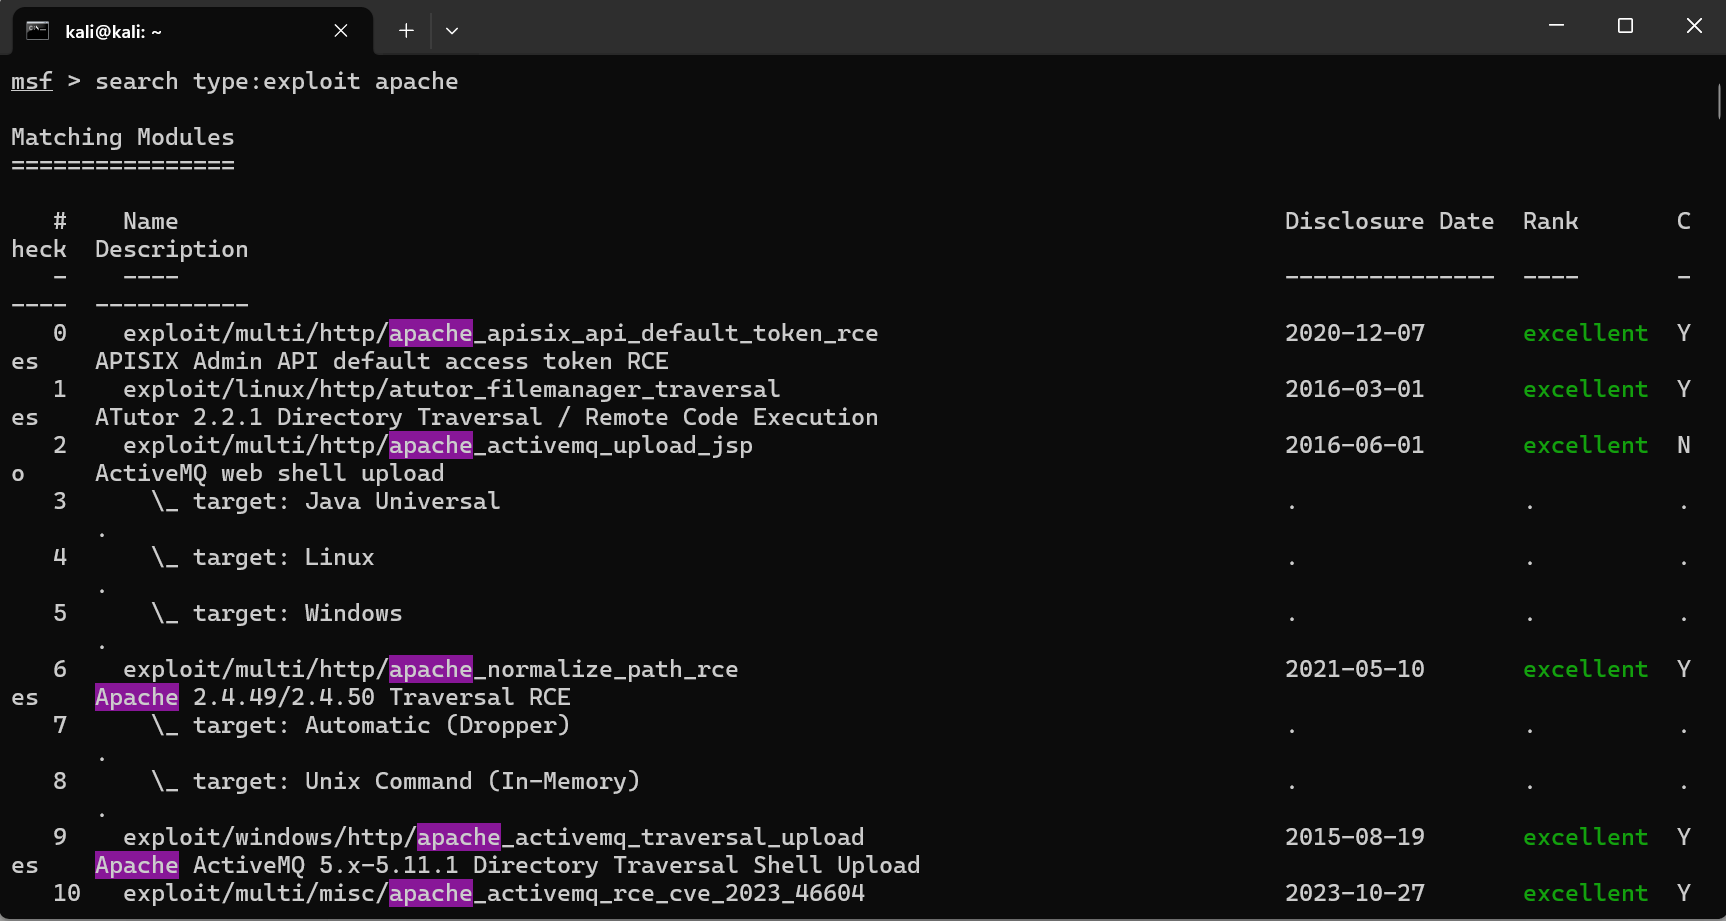
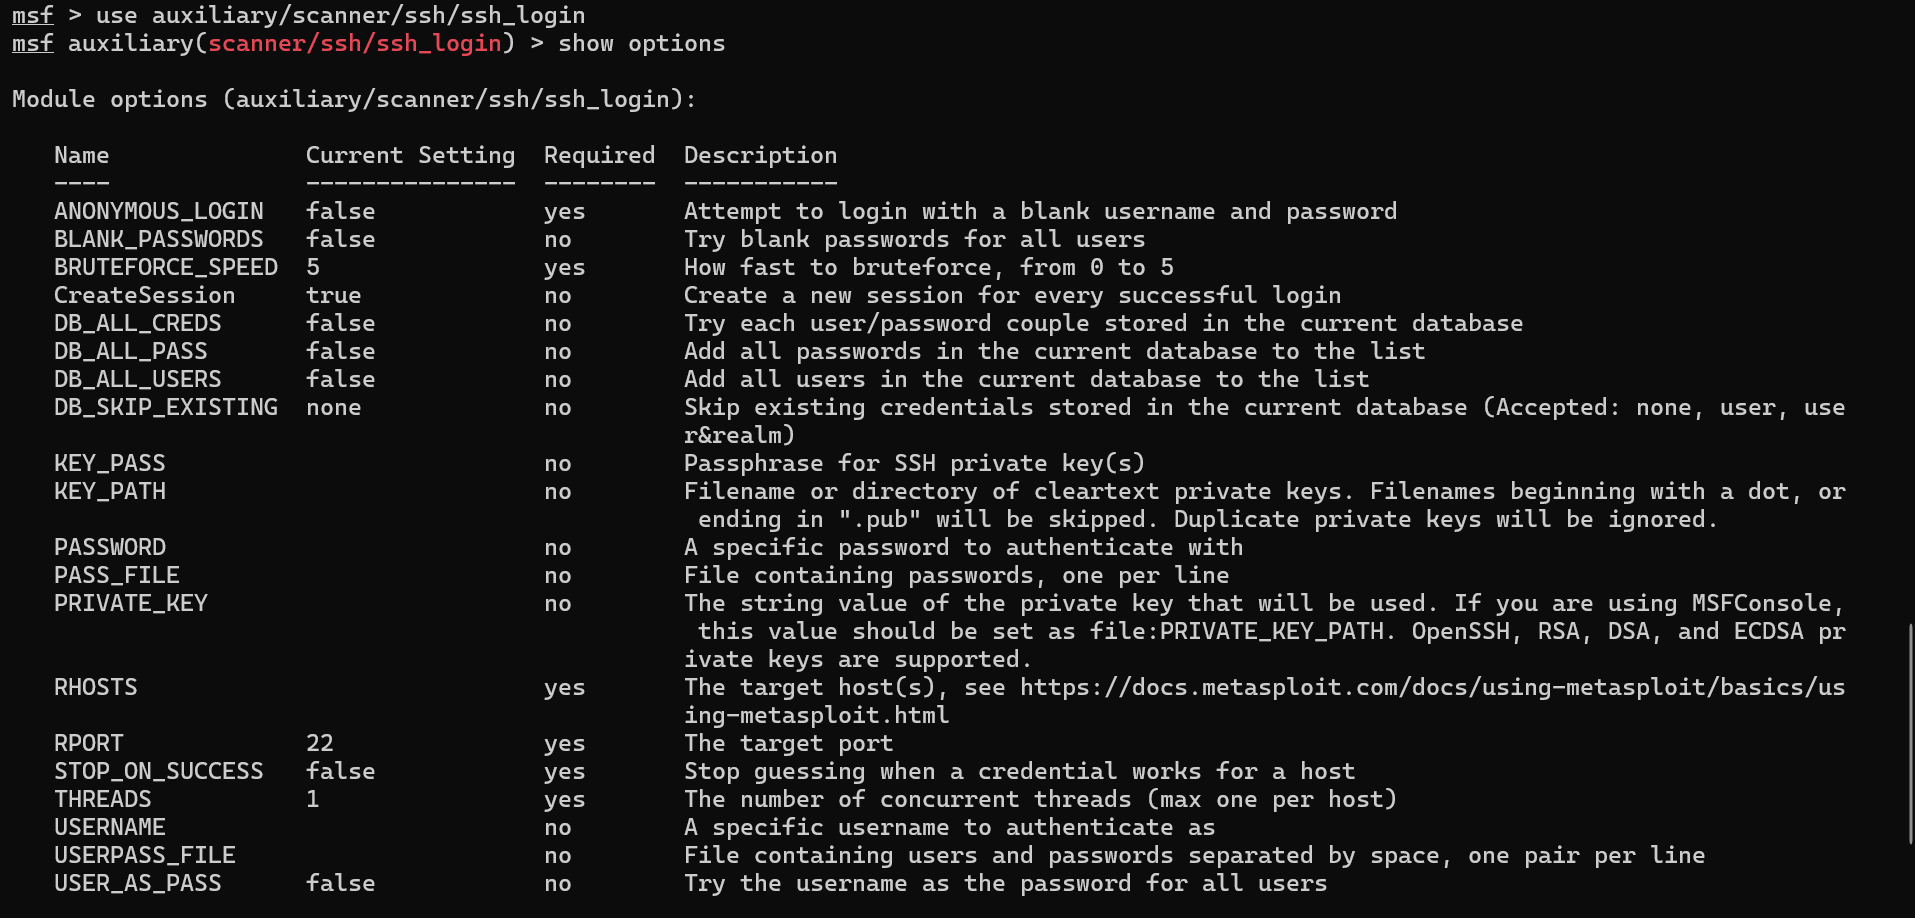
part-1-openssh-enumeration.md

diff --git a/OWASPBWA Exploitation Report 3f461cf666d280e0a878e18084a024bb.md b/OWASPBWA Exploitation Report 3f461cf666d280e0a878e18084a024bb.md
@@ -1,0 +1,118 @@
+# OWASPBWA Exploitation Report.
+
+⚠ **Disclaimer:** This content is published strictly for educational and learning purposes. All commands and techniques demonstrated should only be executed in environments you own or have explicit authorization to test, and within controlled lab conditions. Unauthorized testing of systems, networks, or applications is prohibited. Always obtain the necessary permission and comply with applicable laws and security policies.
+
+**Hands-On Penetration Testing Lab: OpenSSH Enumeration & Security Assessment — Part 1**
+
+As part of my weekend ethical hacking practice, I worked through the initial stages of assessing an intentionally vulnerable lab environment using Kali Linux.
+
+The goal was to follow a structured penetration testing workflow: identify exposed services, examine SSH security configurations, investigate potential vulnerabilities, and validate whether any findings could be reproduced.
+
+### 🔎 1. Service Discovery
+
+I began with an Nmap service and version scan to identify exposed ports and determine which services were running.
+
+```
+nmap -sV -sS -T4 <target ip>
+```
+
+The scan identified SSH running on port 22, alongside several other services that will be assessed in subsequent stages.
+
+![redacted_image_01.png](redacted_image_01.png)
+
+### 🔎 2. SSH Configuration Enumeration
+
+Next, I examined the SSH server's supported authentication methods, key exchange algorithms, host key types, encryption ciphers, and message authentication codes.
+
+```
+nmap -p 22 -sV --script ssh2-enum-algos,ssh-auth-methods <target ip>
+```
+
+The results revealed support for several legacy cryptographic algorithms, including older key exchange methods, CBC-mode ciphers, and outdated MAC algorithms.
+
+**Key lesson:** Identifying weak cryptographic configurations is an important security observation, but it does not automatically prove that an attacker can compromise the server.
+
+![redacted_image_02.png](redacted_image_02.png)
+
+Check for weak SSH configuration.
+
+![redacted_image_03.png](redacted_image_03.png)
+
+### 🔎 3. Vulnerability Investigation
+
+I used Nmap's safe vulnerability-related scripts to check for potential SSH issues:
+
+```
+nmap -p 22 --script "vuln and safe" <target ip>
+```
+
+The scan did not report an SSH vulnerability. However, a negative result does not guarantee that the service is secure; automated checks have limitations.
+
+I also reviewed locally available exploit references using SearchSploit:
+
+```
+searchsploit openssh 5.3
+```
+
+This identified references to historical OpenSSH vulnerabilities, including a username-enumeration issue associated with CVE-2018-15473.
+
+An important part of this stage was understanding that a version banner alone is insufficient to confirm exploitability. Operating system vendors may backport security fixes without changing the displayed upstream version.
+
+![redacted_image_04.png](redacted_image_04.png)
+
+Identify a practical exploitation path 
+
+![image.png](image.png)
+
+### 🔎 4. Username Enumeration
+
+I then used Metasploit's SSH username-enumeration auxiliary module to investigate whether the server's responses could distinguish valid usernames from invalid ones.
+
+The module returned several candidate usernames. These results required cautious interpretation because enumeration can produce false positives, and a valid system account is not necessarily an account that can log in through SSH.
+
+![image.png](image%201.png)
+
+Found it!! so use auxiliary/scanner ..show options to see what to set.
+
+Configure the lab target.
+
+### 🔎 5. Authentication Validation
+
+Finally, I used Metasploit's SSH login scanner to test a small, predefined set of username and password combinations within the authorized lab.
+
+The attempts did not produce a successful authentication.
+
+This established that none of the tested combinations worked. It did not establish that every account was inaccessible or that the SSH service was secure.
+
+![redacted_image_07.png](redacted_image_07.png)
+
+Run the test. - Boom! Found valid usernames!
+
+![redacted_image_11.png](redacted_image_11.png)
+
+On to login.
+
+![image.png](image%202.png)
+
+Billy - It is getting juicyy!
+
+![redacted_image_09.png](redacted_image_09.png)
+
+Well, well, I tried different combinations but nothing worked! Maybe I should enrich my dictionary/wordlists. 
+
+![redacted_image_10.png](redacted_image_10.png)
+
+Kids! Let me sleep, it is getting late - We try again tomorrow. 
+
+### 💡 Key Takeaways
+
+- A structured assessment starts with discovery before exploitation.
+- Service versions and banners provide leads, not definitive proof of vulnerability.
+- Legacy cryptographic algorithms should be evaluated against organizational security standards.
+- Enumeration results must be validated before being reported as confirmed findings.
+- Failed login attempts are evidence about the combinations tested—not proof that a service is secure.
+- Good penetration testing documents both successful and unsuccessful validation steps.
+
+**Next Part:** I’ll move to the Apache HTTP service, identify the web technologies and applications exposed by the lab, and begin assessing potential web application vulnerabilities.
+
+#CyberSecurity #EthicalHacking #PenetrationTesting #KaliLinux #Metasploit #OpenSSH #InfoSec #ContinuousLearning
